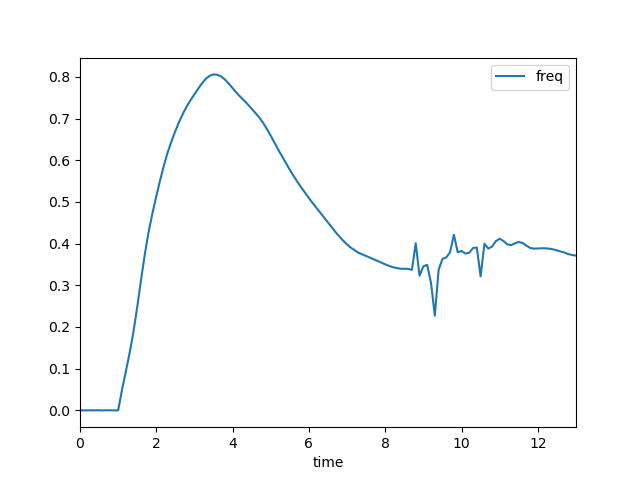
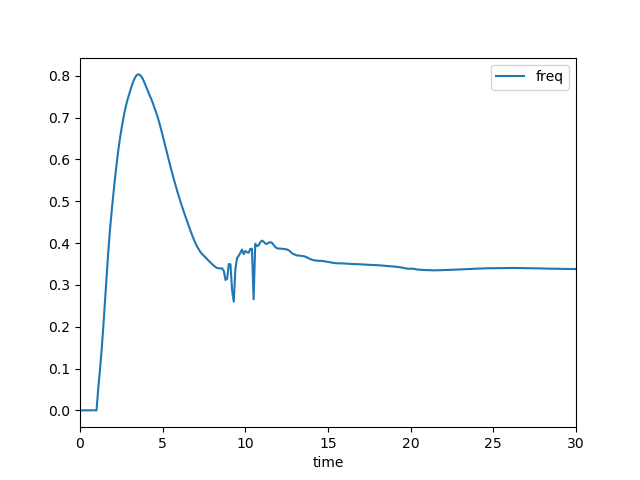
20240306

diff --git a/AGC/plot.py b/AGC/plot.py
@@ -8,8 +8,8 @@ import psspy
 import dyntools
 
 # ----------------------open file-------------------------
-casefile = os.path.join(r"C:\Users\user\Desktop\code\PSS-E\AGC\117P-11007.sav")
-dyrfile  = os.path.join(r"C:\Users\user\Desktop\code\PSS-E\AGC\P-11007-AGC.dyr")
+casefile = os.path.join(r"D:\github\PSS-E\AGC\117P-11007.sav")
+dyrfile  = os.path.join(r"D:\github\PSS-E\AGC\P-11007-AGC8.dyr")
 outfile  = os.path.join(r"C:\Program Files\114\outfile\agc.out")
 progfile = os.path.join(r"C:\Program Files\114\txtfile\agc.txt")
 
@@ -46,7 +46,7 @@ psspy.var_channel([6,1887])     # L+4
 psspy.strt(0,outfile)
 psspy.run (0,  1, 100000, 100, 0)
 psspy.dist_machine_trip(107, r"1")
-psspy.run (0, 13, 100000, 100, 0)
+psspy.run (0, 30, 100000, 100, 0)
 
 # ----------------------plot-------------------------
 chnfobj = dyntools.CHNF(outfile)
@@ -57,7 +57,7 @@ plt.plot   (chandata['time'], freq, label='freq')
 plt.legend ()
 plt.xlim   ([0,chandata['time'][-1]])
 plt.xlabel ('time')
-plt.savefig('after1.png')
+plt.savefig('after1590.png')
 # print(chandata[5])
 for i in range(2, 3):
     freq    = [f for f in chandata[i]]
@@ -66,7 +66,7 @@ for i in range(2, 3):
     plt.legend ()
     plt.xlim   ([0,chandata['time'][-1]])
     plt.xlabel ('time')
-    plt.savefig('ACE1.png')
+    plt.savefig('ACE1590.png')
     # if i == 5:
     #     plt.savefig('reg.png')
 plt.show   ()
